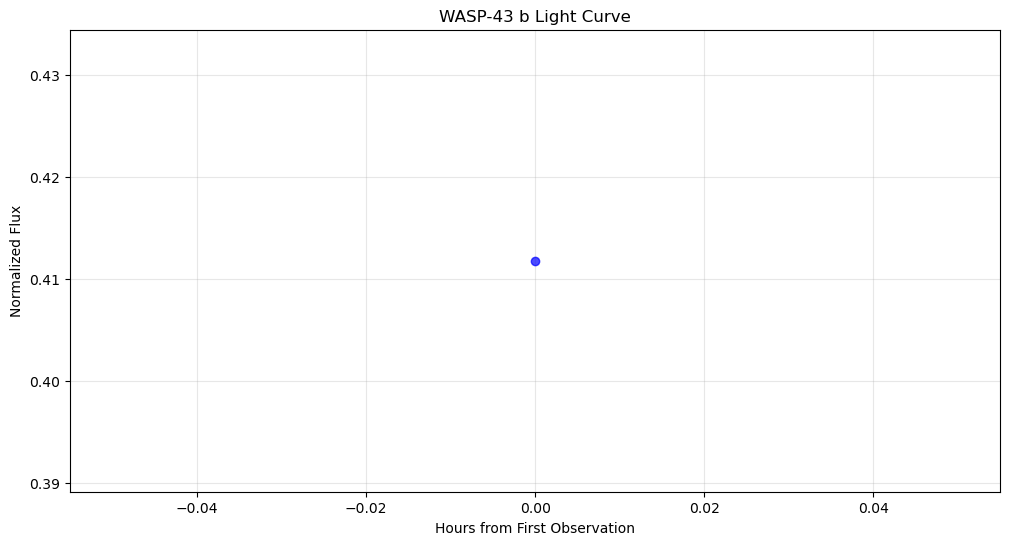
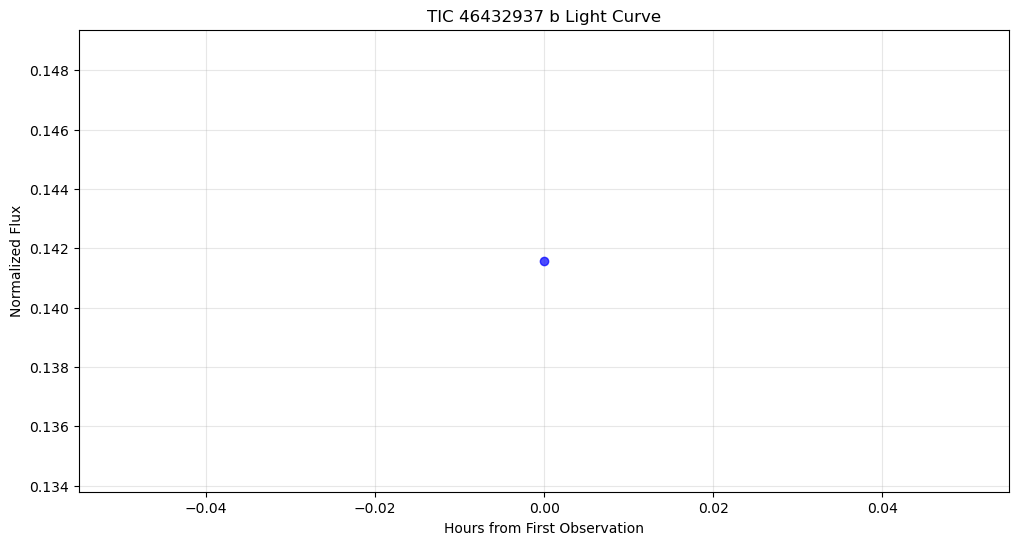
updated plate solution

diff --git a/exo.py b/exo.py
@@ -19,22 +19,25 @@ from glob import glob
 # PLACE ALL FITS FILES DIRECTLY IN "fits_files" FOLDER. COPY THE PATH TO THIS FOLDER. 
 # load your configuration
 config = {
-    "planetary_parameters": { # all parameters need to be updated for TOI. can someone get this info? 
-        "Planet Name": "WASP-43 b", 
-        "Target Star RA": "10:19:37.964856",
-        "Target Star Dec": "-09:48:23.19516",
-        "Published Mid-Transit Time (BJD-UTC)": 2457202.184881,
-        "Orbital Period (days)": 0.81347406,
-        },
+    "planetary_parameters": {
+        "Planet Name": "TIC 46432937 b",
+        "Target Star RA": "05:35:28.56",
+        "Target Star Dec": "-14:35:49.89",
+        "Published Mid-Transit Time (BJD-UTC)": 10744.5338,
+        "Orbital Period (days)": 1.44,
+    },
     "user_info": {
-        "Directory with FITS files": r"C:\Users\evacc\Downloads\exoshortproj", #IMPORTANT: replace with the path to the fits_files folder
+        "Directory with FITS files": r"C:\Users\evacc\Downloads\exoshortproj\fits_files", #IMPORTANT: replace with the path to the fits_files folder
         "Directory to Save Plots": r"C:\Users\evacc\Downloads\exoshortproj\output", # replace with the path to the output folder
-        "Target Star X & Y Pixel": [1000, 408], #also needs to be updated for TOI.
-        "Comparison Star(s) X & Y Pixel": [[530, 10], [900, 200]], #also also needs to be updated for TOI.
+        "Target Star X & Y Pixel": [1026.80, 988.89], #updated.
+        "Comparison Star(s) X & Y Pixel": [
+            [1826.73, 1635.27],  #  Star 1
+            [1576.36, 1506.55],  #  Star 2
+            [1518.16, 1239.44]   #  Star 10
+        ], #updated?
         "Plate Solution? (y/n)": "y"
     }
 }
-
 # photometry parameters
 APERTURE_RADIUS = 5.0  # start with this, adjust based on FWHM, may need to be made smaller/larger depending on seeing conditions
 ANNULUS_RADII = (8.0, 12.0)
@@ -73,8 +76,7 @@ def solve_astrometry(filename):
             filename,
             publicly_visible="n",
             allow_commercial_use="n",
-            solve_timeout=300,
-            force_image_upload=True 
+            solve_timeout=300
         )
         if wcs_header is not None:
             return WCS(wcs_header)
@@ -88,21 +90,15 @@ from astropy import units as u
 def verify_plate_solution(wcs, config):
     """Verify WCS solution matches expected target coordinates."""
     try:
-        # convert target RA/Dec to pixels using WCS
         ra = config["planetary_parameters"]["Target Star RA"]
         dec = config["planetary_parameters"]["Target Star Dec"]
         
-        # if RA/Dec are in sexagesimal format, you may need to parse them with SkyCoord (we need this for anything not in angular i.e. h:m:s...)
         coord = SkyCoord(ra, dec, unit=(u.hourangle, u.deg))
         calc_x, calc_y = wcs.all_world2pix(coord.ra.deg, coord.dec.deg, 0)
         
-        calc_x, calc_y = wcs.all_world2pix(ra, dec, 0)
-        
-        # compare with user-provided coordinates
         expected_x, expected_y = config["user_info"]["Target Star X & Y Pixel"]
         offset = np.sqrt((calc_x - expected_x)**2 + (calc_y - expected_y)**2)
         
-        # print warning if offset is above tolerance
         if offset > 3:
             print(f"WARNING: Plate solution offset: {offset:.2f} pixels")
     except Exception as e:
